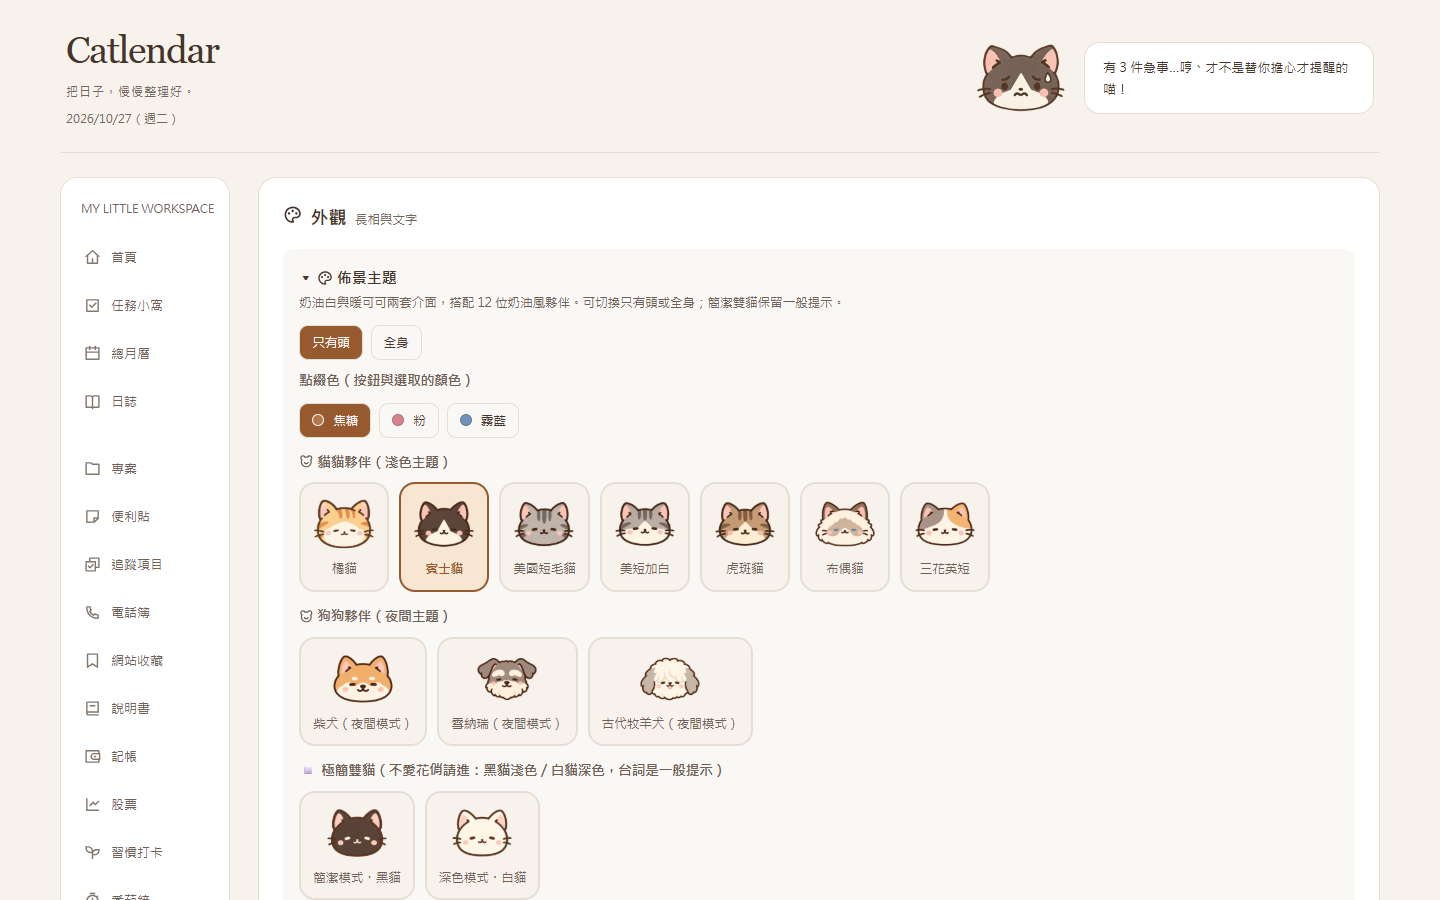
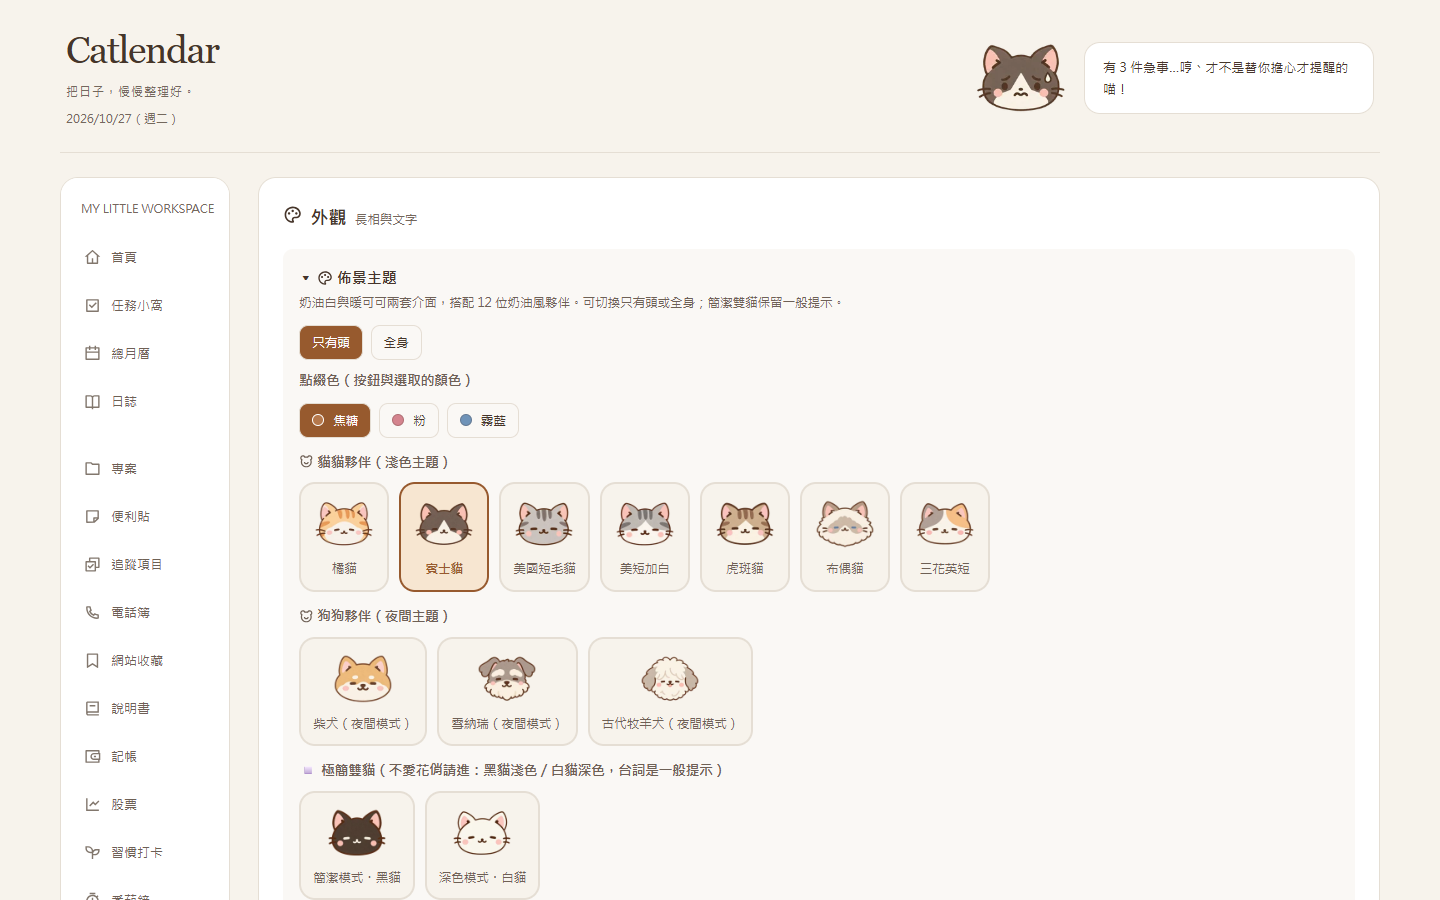
Catlendar 設定頁截圖與圖說更新為 v66.4（細線基準臉）
設定頁 12 位夥伴縮圖換成細線基準臉後重拍；四張圖說版本改 v66.4；內容皆為虛構示範資料。

diff --git a/index.html b/index.html
@@ -901,7 +901,7 @@ const PROJECTS = [
   hi:["追案看板「一校一卡、球在誰手上」，21 所學校的交辦進度一眼掌握；v65 起每張卡直接畫出每條線的進度","v65 奶油風改版：請美編與 UI 設計視角會診，把 1,258 個 emoji 換成線條圖示、按鈕層級收斂、色票提亮，再由模擬使用者跑 heuristic 複檢","經歷資料清空事故後，把備份匯出與自動快照升級為一級功能","可以交接：改版歷程、維運手冊、連「給下一個 AI 的說明書」都寫好了"],
   tech:["HTML/CSS/JS 單檔","localStorage","GAS 雲端同步","AI 結對開發"],
   link:"https://barefooty.github.io/catlendar-app/", linkTxt:"🐱 立即試用 Catlendar",
-  shots:[{s:"assets/catlendar-home.png?v=66.3",c:"首頁儀表板（v66.3）：奶白卡片、截止／輪到我／等別人分區與局部日期色；內容為虛構示範資料"},{s:"assets/catlendar-board.png?v=66.3",c:"追案看板（v66.3）：一列一案、一欄一條線，綠色已完成、霧藍目前步驟；合作案皆為虛構示範"},{s:"assets/catlendar-theme.png?v=66.3",c:"設定頁（v66.3）：十二位奶油風夥伴、只有頭／全身、三種點綴色；少框線與展開跨欄"},{s:"assets/catlendar-mobile.png?v=66.3",c:"手機版（v66.3）：底部導覽，任務名稱與分類／日期分行；虛構示範資料"}]},
+  shots:[{s:"assets/catlendar-home.png?v=66.4",c:"首頁儀表板（v66.4）：奶白卡片、截止／輪到我／等別人分區與局部日期色；內容為虛構示範資料"},{s:"assets/catlendar-board.png?v=66.4",c:"追案看板（v66.4）：一列一案、一欄一條線，綠色已完成、霧藍目前步驟；合作案皆為虛構示範"},{s:"assets/catlendar-theme.png?v=66.4",c:"設定頁（v66.4）：十二位奶油風夥伴、只有頭／全身、三種點綴色；少框線與展開跨欄"},{s:"assets/catlendar-mobile.png?v=66.4",c:"手機版（v66.4）：底部導覽，任務名稱與分類／日期分行；虛構示範資料"}]},
 
  {id:"course", cat:["ai"], svg:"course",
   title:"📋 課程異動申請自動化", status:"live", statusTxt:"✅ 營運中・本季自動產出 37 份收執聯",
